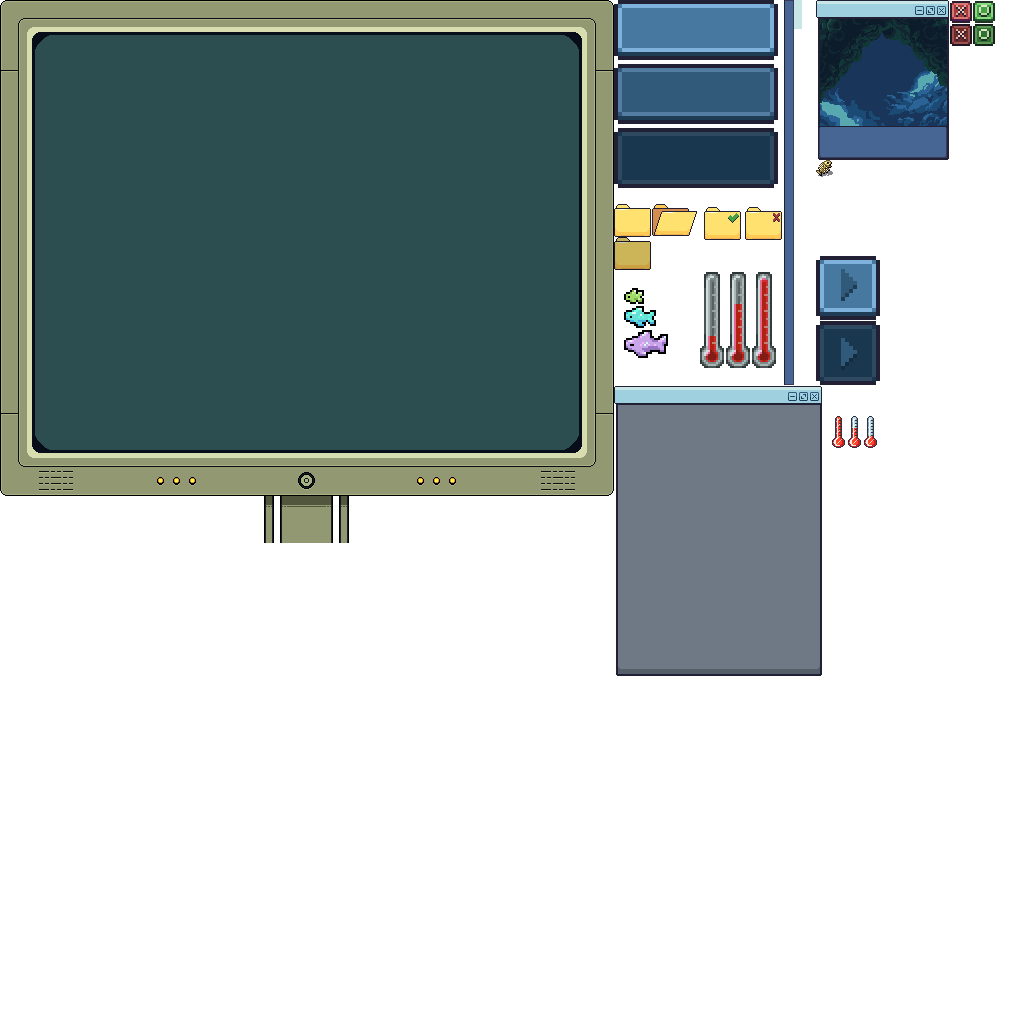
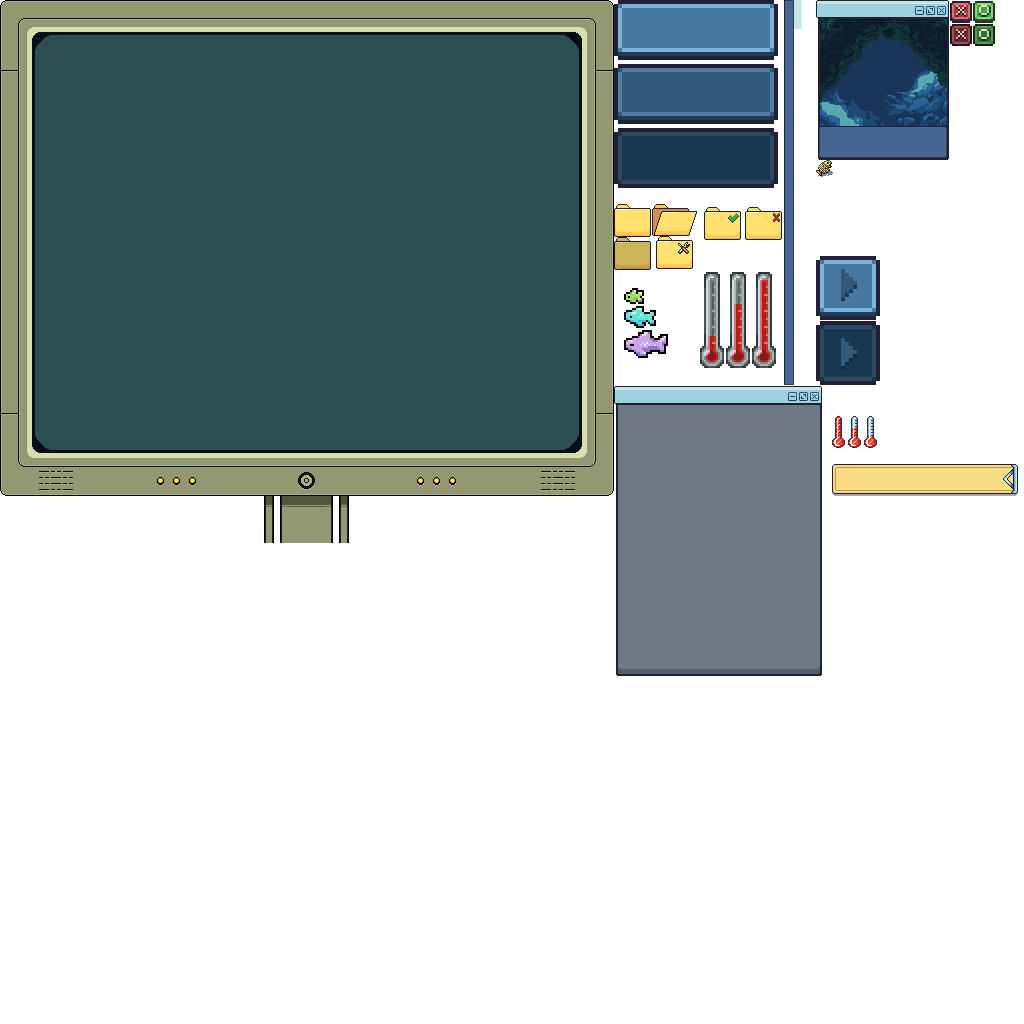
design changes

Changed region(s): [[0.8125, 0.4375, 1.0, 0.5], [0.625, 0.2188, 0.6875, 0.2812]]

diff --git a/core/src/main/java/dev/juliusabels/fish_fiesta/screens/level/LevelScreen.java b/core/src/main/java/dev/juliusabels/fish_fiesta/screens/level/LevelScreen.java
@@ -14,10 +14,7 @@ import dev.juliusabels.fish_fiesta.game.level.Level;
 import dev.juliusabels.fish_fiesta.screens.FFBaseScreen;
 import dev.juliusabels.fish_fiesta.screens.overlay.DialogButton;
 import dev.juliusabels.fish_fiesta.screens.overlay.DialogOverlay;
-import dev.juliusabels.fish_fiesta.util.FishManager;
-import dev.juliusabels.fish_fiesta.util.LevelManager;
-import dev.juliusabels.fish_fiesta.util.ResourceHandler;
-import dev.juliusabels.fish_fiesta.util.TooltipHandler;
+import dev.juliusabels.fish_fiesta.util.*;
 import lombok.extern.slf4j.Slf4j;
 
 import java.util.List;
@@ -35,6 +32,7 @@ public class LevelScreen extends FFBaseScreen {
     private final List<String> fishes;
     private final int fishAmount;
     private int fishIndex;
+    private final FishFontBig fishFontBig;
 
     public LevelScreen(FishFiestaGame game, Level currentLevel) {
         super(game);
@@ -44,6 +42,7 @@ public class LevelScreen extends FFBaseScreen {
         tooltipHandler = new TooltipHandler();
         basicTextFont = new BitmapFont();
         basicTextFont.getData().setScale(0.8F);
+        fishFontBig = new FishFontBig(game);
         levelStarted = false;
         fishManager = resourceHandler.getFishManager();
         fishes = currentLevel.getFishIDs();
@@ -52,7 +51,6 @@ public class LevelScreen extends FFBaseScreen {
         fishIndex = currentLevel.getFishIndex();
     }
 
-    //TODO font for cam text etc
     public void show() {
         super.show();
         if (fishIndex == fishAmount) {
@@ -62,13 +60,14 @@ public class LevelScreen extends FFBaseScreen {
         }
 
         Table mistakes = new Table();
-        Label mistakeText = new Label("Mistakes: ", new Label.LabelStyle(basicTextFont, Color.BLACK));
-        mistakes.add(mistakeText).space(5);
+        mistakes.background(this.monitorSkin.getDrawable("mistake-bg"));
+        Label mistakeText = fishFontBig.createLabel("Mistakes: ", 1.0F);
+        mistakes.add(mistakeText).space(5).padBottom(3);
         if (this.currentLevel.getMistakes() > 0) {
             Table icons = new Table();
             for (int i = 0; i < currentLevel.getMistakes(); i++) {
                 Image mistakeIcon = new Image(this.monitorSkin.getDrawable("mistake-icon"));
-                icons.add(mistakeIcon).space(5);
+                icons.add(mistakeIcon).space(5).padBottom(3);
             }
             mistakes.add(icons);
         }
@@ -77,6 +76,9 @@ public class LevelScreen extends FFBaseScreen {
 
         Table fishCamWindow = new Table();
         fishCamWindow.background(this.monitorSkin.getDrawable("fishcam-window"));
+
+        Label fishcamTitle = fishFontBig.createLabel("Fish Cam", 1.1f);
+        fishCamWindow.add(fishcamTitle).top().padTop(5).padLeft(4).left().row();
 
         Table fishcamContent = new Table();
 
@@ -148,12 +150,14 @@ public class LevelScreen extends FFBaseScreen {
 
         contentTable.add(fishCamWindow).expand().left().padLeft(60).padBottom(160);
 
-        //TODO make all sprites bigger including window sprite
+        // For the guest list window
         Table guestListWindow = new Table();
         guestListWindow.background(this.monitorSkin.getDrawable("guestlist-window"));
 
+        Label guestListTitle = fishFontBig.createLabel("Room Conditions", 1.1f);
+        guestListWindow.add(guestListTitle).top().padTop(5).padLeft(4).left().row();
+
         Table conditions = new Table();
-        conditions.setFillParent(true);
 
         this.currentLevel.getConditions().forEach((type, values) -> {
             if (type == ConditionType.SIZE && !values.isEmpty()) {
@@ -161,19 +165,19 @@ public class LevelScreen extends FFBaseScreen {
                 for (String value : values) {
                     Image image = new Image(this.monitorSkin.getDrawable("fish_size-" + value.toLowerCase()));
                     tooltipHandler.appendTooltip(value.toLowerCase() + " fish", image);
-                    size.add(image).padTop(20).space(5).left();
+                    size.add(image).space(5);
                 }
-                conditions.add(size).expandX().left().padRight(90).row();
+                conditions.add(size).left().padTop(20).row();
             }
-            conditions.row().space(5);
 
             if (type == ConditionType.TEMPERATURE && !values.isEmpty()) {
                 Image image = new Image(this.monitorSkin.getDrawable("temperature-" + values.getFirst().toLowerCase()));
                 tooltipHandler.appendTooltip(values.getFirst().toLowerCase(), image);
-                conditions.add(image).left().row();
+                conditions.add(image).left().padTop(10).row();
             }
         });
-        guestListWindow.add(conditions);
+
+        guestListWindow.add(conditions).expand().fill().top().padLeft(10).padTop(5);
 
         contentTable.add(guestListWindow).expand().right().padRight(20).padBottom(100);
     }
@@ -234,6 +238,7 @@ public class LevelScreen extends FFBaseScreen {
         super.dispose();
         exitDialog.dispose();
         basicTextFont.dispose();
+        fishFontBig.dispose();
         levelManager.setActivelevel(null);
     }
 }

diff --git a/core/src/main/java/dev/juliusabels/fish_fiesta/util/FishFontBig.java b/core/src/main/java/dev/juliusabels/fish_fiesta/util/FishFontBig.java
@@ -4,26 +4,15 @@ import com.badlogic.gdx.graphics.Color;
 import com.badlogic.gdx.graphics.g2d.Batch;
 import com.badlogic.gdx.graphics.g2d.BitmapFont;
 import com.badlogic.gdx.graphics.g2d.GlyphLayout;
+import com.badlogic.gdx.scenes.scene2d.ui.Label;
 import com.badlogic.gdx.scenes.scene2d.ui.TextButton;
 import com.badlogic.gdx.scenes.scene2d.utils.Drawable;
 import dev.juliusabels.fish_fiesta.FishFiestaGame;
 
 /**
- * A utility class for drawing bitmap font text with custom scaling.
- * <p>
- * This class wraps a BitmapFont to provide simplified text rendering with
- * automatic uppercase conversion and aspect ratio correction when scaling.
- * The vertical scaling is automatically adjusted by a correction factor to
- * maintain proper pixel-accurate appearance.
+ * A utility class for drawing the big fish font
  */
 public class FishFontBig {
-    /**
-     * Correction factor for vertical scaling.
-     * <p>
-     * When scaling the font, the vertical scale is divided by this value
-     * to maintain proper pixel proportions and prevent distortion.
-     */
-    private static final float SCALE_CORRECTOR = 1.9F;
 
     /**
      * The underlying bitmap font instance.
@@ -40,22 +29,20 @@ public class FishFontBig {
     }
 
     /**
-     * Draws text with the given scale.
-     * <p>
-     * The text is automatically converted to uppercase, because the font doesn't support lowercase letters.
-     * The scale is applied with aspect ratio correction to maintain pixel-accurate rendering.
+     * Creates a label with the big fish font.
      *
-     * @param batch The sprite batch to draw with
-     * @param str The text to draw
-     * @param x The x-coordinate position
-     * @param y The y-coordinate position
-     * @param scale The scale factor (horizontal scale is used directly,
-     *              vertical scale is adjusted by the correction factor)
-     * @return The GlyphLayout containing the text metrics
+     * @param text The text to display
+     * @param scale The scale factor for the font
+     * @return The created Label
      */
-    public GlyphLayout draw(Batch batch, CharSequence str, float x, float y, float scale) {
-        this.font.getData().setScale(scale, scale / SCALE_CORRECTOR);
-        return this.font.draw(batch, str.toString().toUpperCase(), x, y);
+    public Label createLabel(String text, float scale) {
+        Label.LabelStyle labelStyle = new Label.LabelStyle();
+
+        BitmapFont fontCopy = new BitmapFont(font.getData().getFontFile());
+        fontCopy.getData().setScale(scale);
+        labelStyle.font = fontCopy;
+        labelStyle.fontColor = Color.WHITE;
+        return new Label(text.toUpperCase(), labelStyle);
     }
 
     /**
@@ -72,13 +59,11 @@ public class FishFontBig {
      */
     public TextButton.TextButtonStyle createButtonStyle(Drawable upDrawable, Drawable downDrawable, Drawable overDrawable, float scale, Color fontColor, Color overFontColor, Color downFontColor) {
 
-        // Create a new style with our font
         TextButton.TextButtonStyle style = new TextButton.TextButtonStyle();
         style.up = upDrawable;
         style.down = downDrawable;
         style.over = overDrawable;
 
-        // Create a copy of the font and scale it appropriately
         BitmapFont buttonFont = new BitmapFont(font.getData().getFontFile());
         buttonFont.getData().setScale(scale);
         style.font = buttonFont;

diff --git a/core/src/main/java/dev/juliusabels/fish_fiesta/screens/level/LevelSelectionScreen.java b/core/src/main/java/dev/juliusabels/fish_fiesta/screens/level/LevelSelectionScreen.java
@@ -72,8 +72,8 @@ public class LevelSelectionScreen extends FFBaseScreen {
             Label levelName = new Label(levelId.replace("level", ""), new Label.LabelStyle(font, Color.BLACK));
             levelCell.add(levelName).row();
 
-            //TODO also add icon for inProgress & for locked
-            String folderSuffix = levelManager.isLevelCompleted(levelId) ? "-complete" : levelManager.isLevelFailed(levelId) ? "-failed" : "";
+            //TODO also add icon for inProgress
+            String folderSuffix = levelManager.isLevelCompleted(levelId) ? "-complete" : levelManager.isLevelFailed(levelId) ? "-failed" : levelManager.isLevelInProgress(levelId) ? "-inProgress" : "";
 
             Button.ButtonStyle style = new Button.ButtonStyle(
                 monitorSkin.getDrawable("folder" + folderSuffix),
